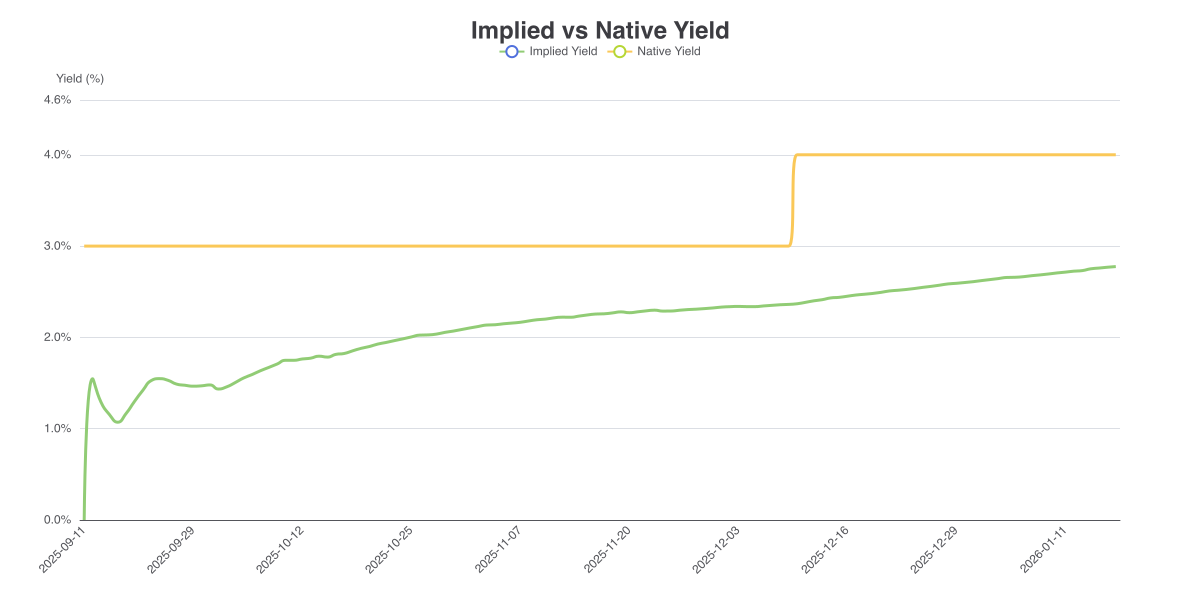
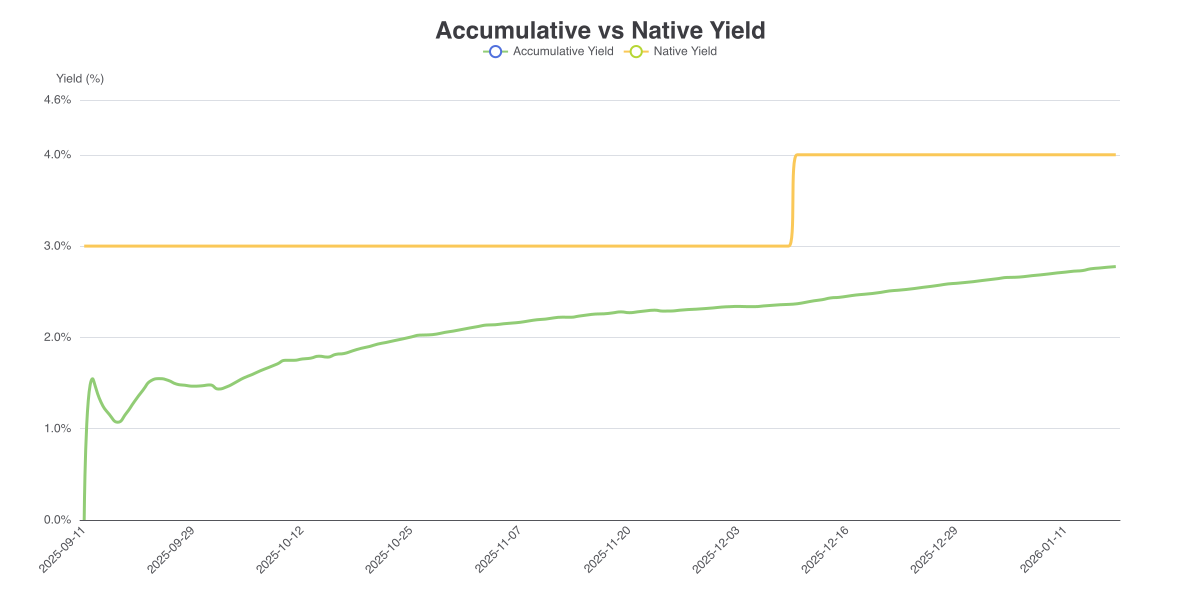
fix: accumulative yield

Changed region(s): [[0.3392, 0.03, 0.6475, 0.12]]

diff --git a/scripts/create-charts.ts b/scripts/create-charts.ts
@@ -130,24 +130,24 @@ function createPriceChart() {
 	chart.dispose();
 }
 
-// 2. Implied vs Native Yield
+// 2. Accumulative vs Native Yield
 function createYieldChart() {
 	const canvas = createCanvas(CHART_WIDTH, CHART_HEIGHT);
 	const chart = echarts.init(canvas as any);
 
 	const dates = chronologicalData.map((d) => d.date);
-	const impliedYields = chronologicalData.map((d) =>
+	const accumulativeYields = chronologicalData.map((d) =>
 		formatYield(d.accumulativeYield),
 	);
 	const nativeYields = chronologicalData.map((d) =>
 		formatYield(d.nativeYield),
 	);
-	const allYields = [...impliedYields, ...nativeYields];
+	const allYields = [...accumulativeYields, ...nativeYields];
 	const yieldBounds = calculateAxisBounds(allYields, 15);
 
 	const option = {
 		title: {
-			text: 'Implied vs Native Yield',
+			text: 'Accumulative vs Native Yield',
 			left: 'center',
 			textStyle: {
 				fontSize: 24,
@@ -165,7 +165,7 @@ function createYieldChart() {
 			},
 		},
 		legend: {
-			data: ['Implied Yield', 'Native Yield'],
+			data: ['Accumulative Yield', 'Native Yield'],
 			top: 40,
 		},
 		grid: {
@@ -195,9 +195,9 @@ function createYieldChart() {
 		},
 		series: [
 			{
-				name: 'Implied Yield',
+				name: 'Accumulative Yield',
 				type: 'line',
-				data: impliedYields,
+				data: accumulativeYields,
 				smooth: true,
 				lineStyle: {
 					width: 3,
@@ -555,7 +555,7 @@ function createDashboard() {
 	const totalAssets = chronologicalData.map((d) =>
 		weiToDecimal(d.totalAssets),
 	);
-	const impliedYields = chronologicalData.map((d) =>
+	const accumulativeYields = chronologicalData.map((d) =>
 		formatYield(d.accumulativeYield),
 	);
 	const netFlows = chronologicalData.map((d) => {
@@ -566,7 +566,7 @@ function createDashboard() {
 
 	const priceBounds = calculateAxisBounds(prices, 5);
 	const assetBounds = calculateAxisBounds(totalAssets, 10);
-	const yieldBounds = calculateAxisBounds(impliedYields, 15);
+	const yieldBounds = calculateAxisBounds(accumulativeYields, 15);
 	const flowBounds = calculateAxisBounds(netFlows, 20);
 
 	const option = {
@@ -593,7 +593,7 @@ function createDashboard() {
 				textStyle: { fontSize: 16 },
 			},
 			{
-				text: 'Implied Yield',
+				text: 'Accumulative Yield',
 				left: '12%',
 				top: '54%',
 				textStyle: { fontSize: 16 },
@@ -736,11 +736,11 @@ function createDashboard() {
 				showSymbol: false,
 			},
 			{
-				name: 'Implied Yield',
+				name: 'Accumulative Yield',
 				type: 'line',
 				xAxisIndex: 2,
 				yAxisIndex: 2,
-				data: impliedYields,
+				data: accumulativeYields,
 				smooth: true,
 				lineStyle: { width: 2, color: '#fac858' },
 				showSymbol: false,

diff --git a/README.md b/README.md
@@ -39,7 +39,7 @@ yarn dev
 
   Generates 7 charts in `/exports`:
   1. Price Over Time
-  2. Implied vs Native Yield Comparison
+  2. Accumulative vs Native Yield Comparison
   3. Daily Net Flow
   4. Total Assets Growth
   5. Transaction Volume
